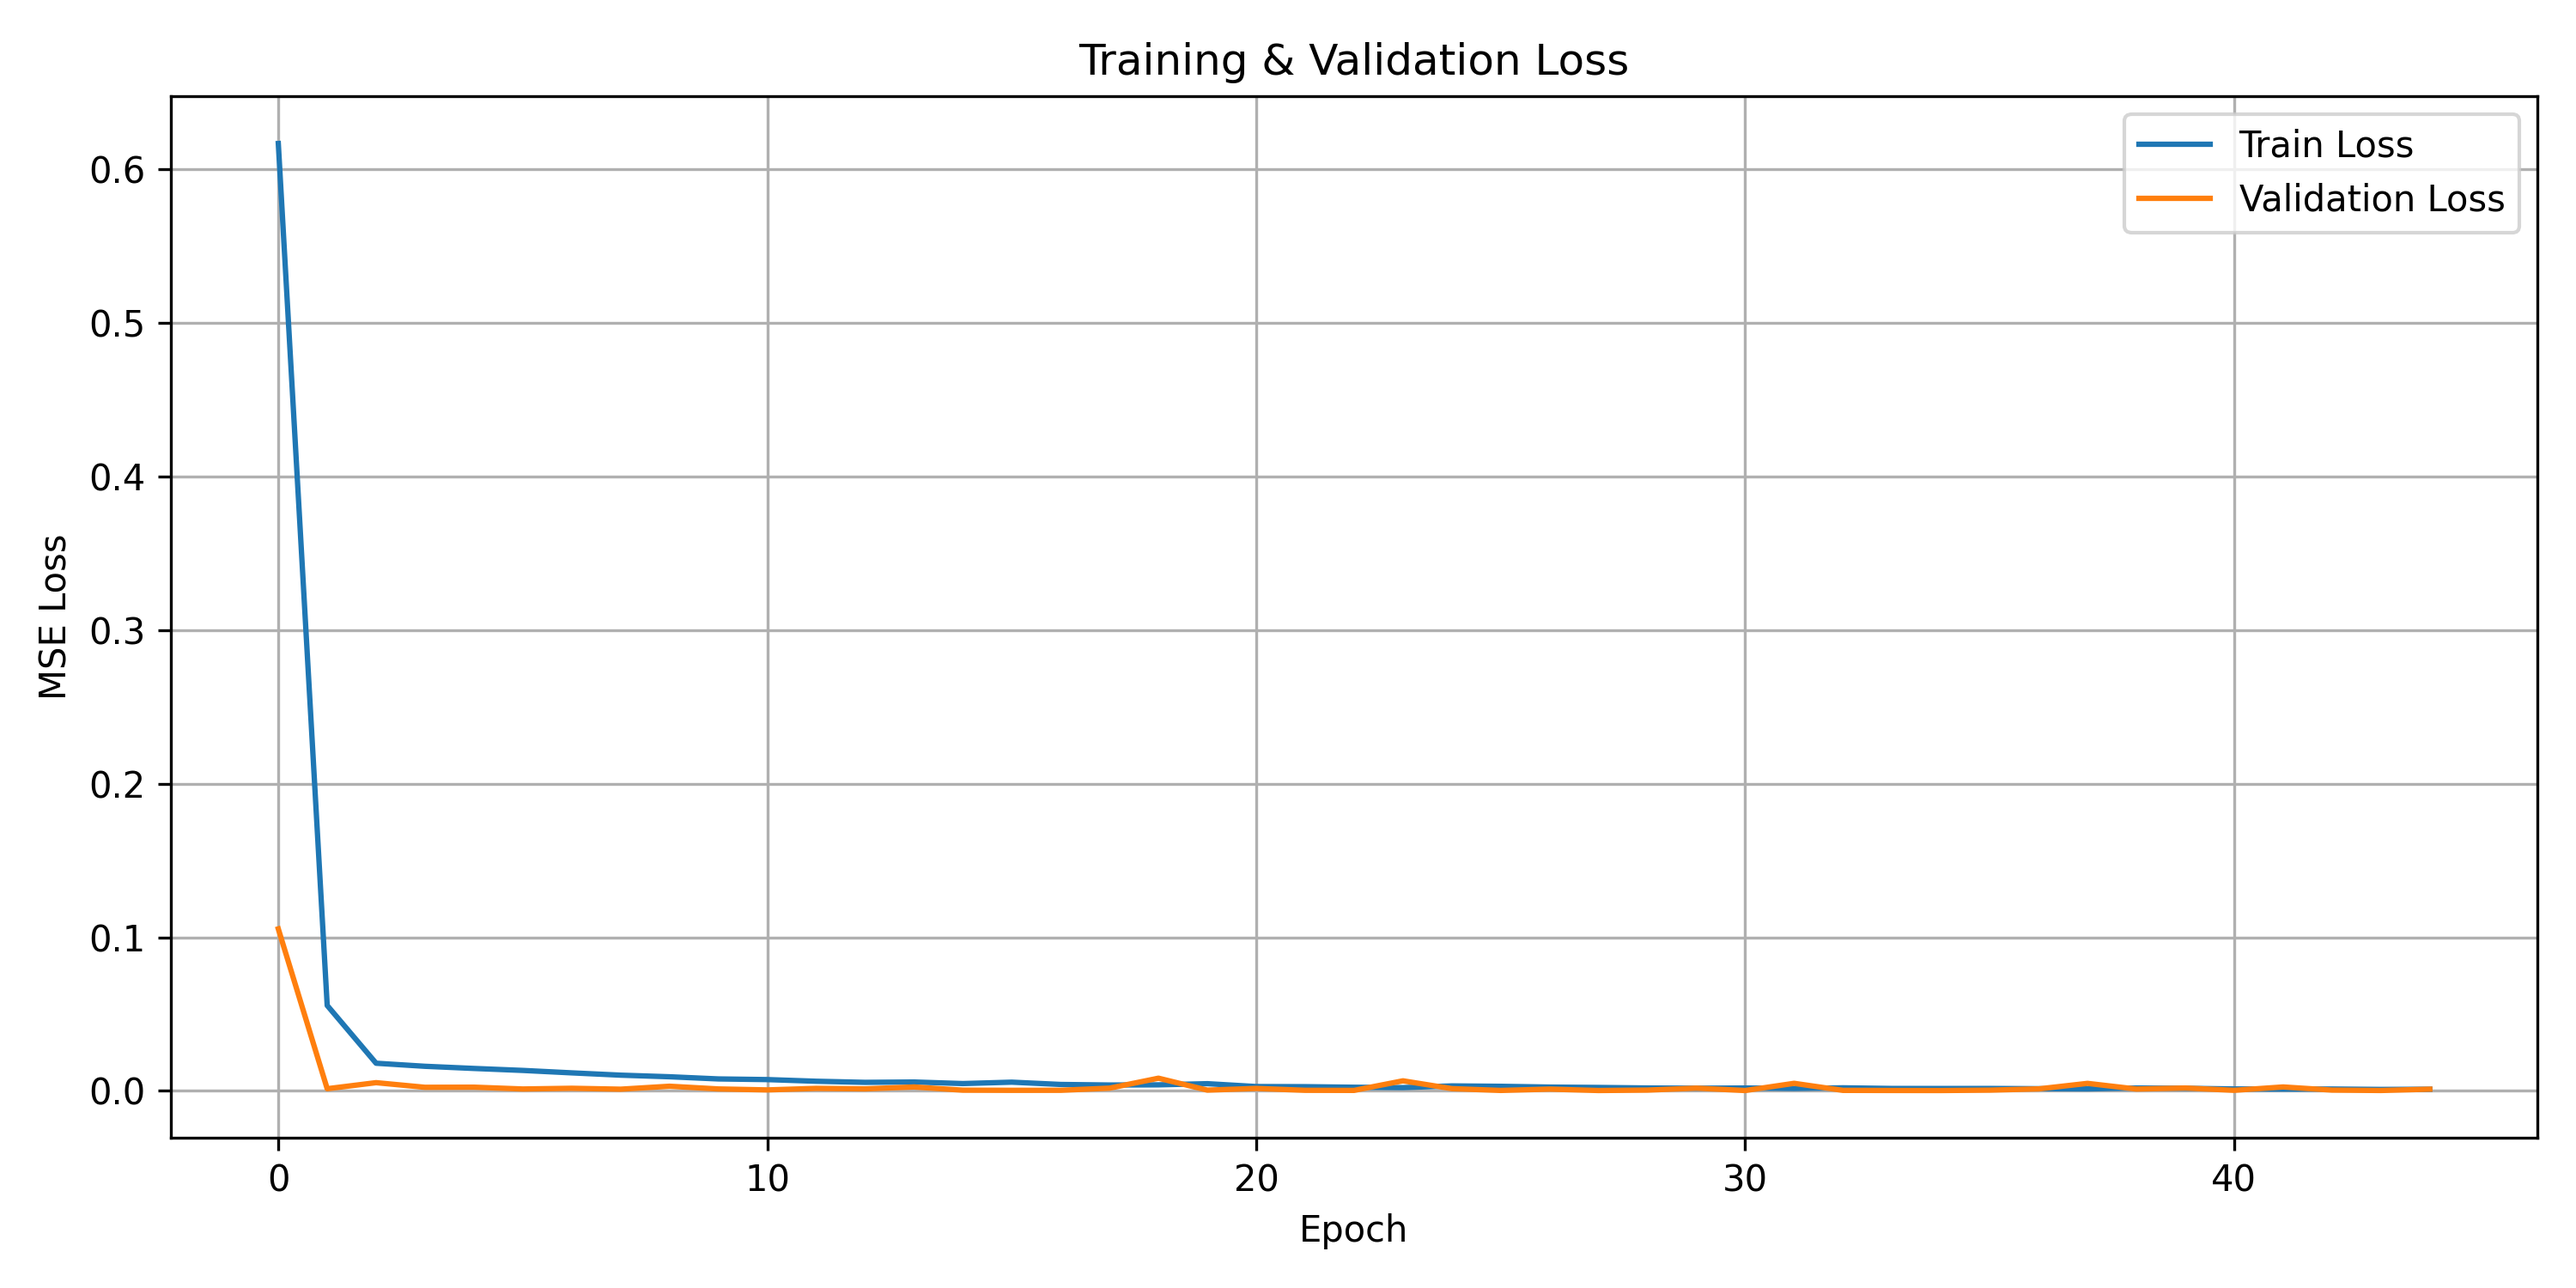
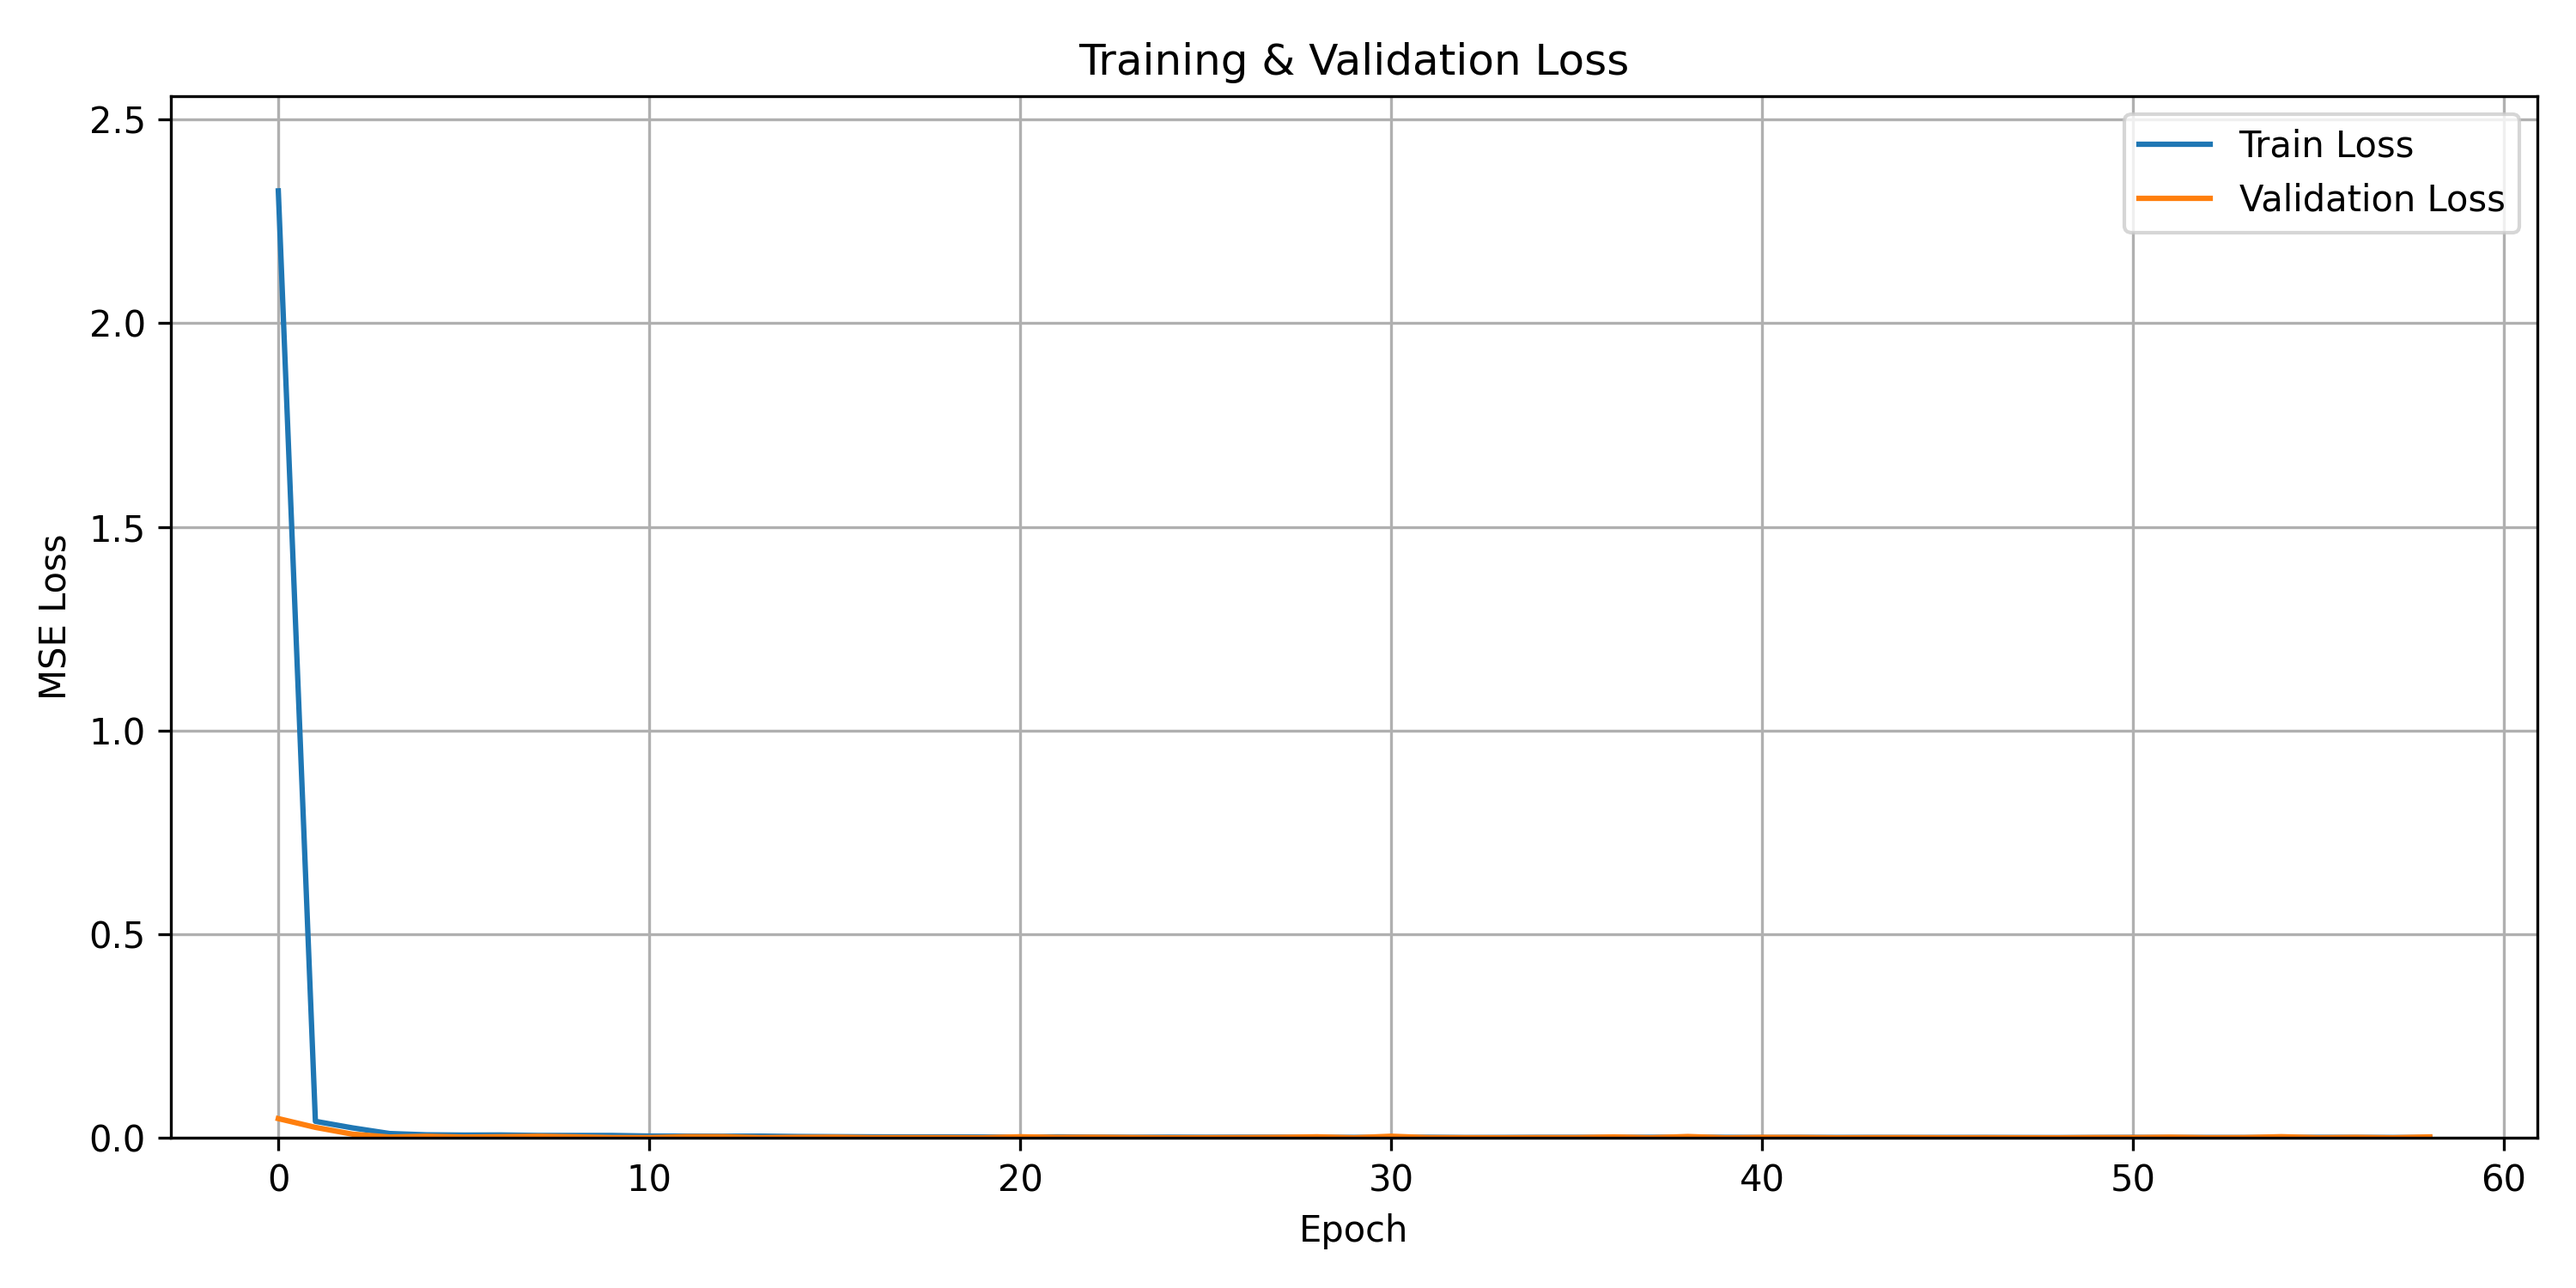
Update files

diff --git a/config/config.py b/config/config.py
@@ -7,8 +7,8 @@ class StockConfig:
     n_layer: int = 2          # Transformer Block 层数
     n_head: int = 8          # 注意力头数
     hidden_dim: int = 512    # embedding维度（即d_model）
-    head_size: int = 64       # 每个注意力头的维度hidden_dim // n_head
-    dropout: float = 0.3      # Dropout 概率
+    head_size: int = 32       # 每个注意力头的维度hidden_dim // n_head
+    dropout: float = 0.2      # Dropout 概率
     block_size: int = 60      # 序列长度（最大输入长度） 要与seq_len一样，保持维度一致
 
     # 路径配置
@@ -18,8 +18,8 @@ class StockConfig:
 
     # 模型训练参数
     seq_len = 60
-    batch_size = 64
-    lr = 1e-4
+    batch_size = 32
+    lr = 5e-4
     epochs = 100
     save_interval = 2
     # 设备配置

diff --git a/pretrain.py b/pretrain.py
@@ -100,7 +100,7 @@ def train():
 
     print("\n训练结束！最佳模型已保存：", best_model_path)
 
-    # ===================== 保存 scaler（关键!!!） =====================
+    # ===================== 保存 scaler=====================
     feature_scaler_path = os.path.join(cfg.checkpoints, "feature_scaler.pkl")
     target_scaler_path  = os.path.join(cfg.checkpoints, "target_scaler.pkl")
 
@@ -115,6 +115,9 @@ def train():
     plt.figure(figsize=(10,5))
     plt.plot(train_losses, label='Train Loss')
     plt.plot(val_losses, label='Validation Loss')
+
+    plt.ylim(0, max(train_losses[0], val_losses[0]) * 1.1)
+
     plt.xlabel("Epoch")
     plt.ylabel("MSE Loss")
     plt.title("Training & Validation Loss")

diff --git a/utils/early_stop.py b/utils/early_stop.py
@@ -2,7 +2,7 @@ import numpy as np
 import torch
 
 class EarlyStopping:
-    def __init__(self, patience=10, verbose=False, delta=0):
+    def __init__(self, patience=10, verbose=False, delta=1e-5):
         self.patience = patience
         self.verbose = verbose
         self.counter = 0
